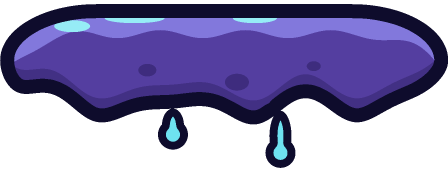
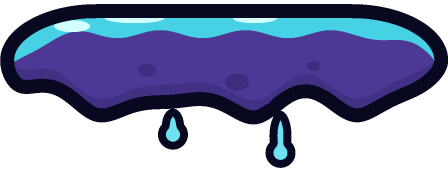
Médula: borde turquesa en piso y plataformas para que resalten del fondo
Claude-Session: https://claude.ai/code/session_01So77qf1zGiYdnp4fHwupfP

Changed region(s): [[0.0312, 0.0852, 0.9688, 0.3409]]

diff --git a/Tools/Art/generar_tejido.py b/Tools/Art/generar_tejido.py
@@ -95,10 +95,11 @@ PALETAS = {
     },
     # Médula: índigo-violeta con brillo turquesa (líquido cefalorraquídeo).
     "Medula": {
-        "contorno": (14, 12, 44),
-        "cuerpo": (84, 62, 160),
-        "labio": (130, 120, 220),
-        "brillo": (150, 236, 246),
+        # Borde de arriba turquesa: así las plataformas no se confunden con las fibras lavanda del fondo.
+        "contorno": (8, 8, 32),
+        "cuerpo": (78, 56, 150),
+        "labio": (70, 210, 228),
+        "brillo": (210, 255, 255),
         "mancha": (62, 44, 126),
         "sombra": (66, 48, 132),
         "relleno": (40, 30, 92),
